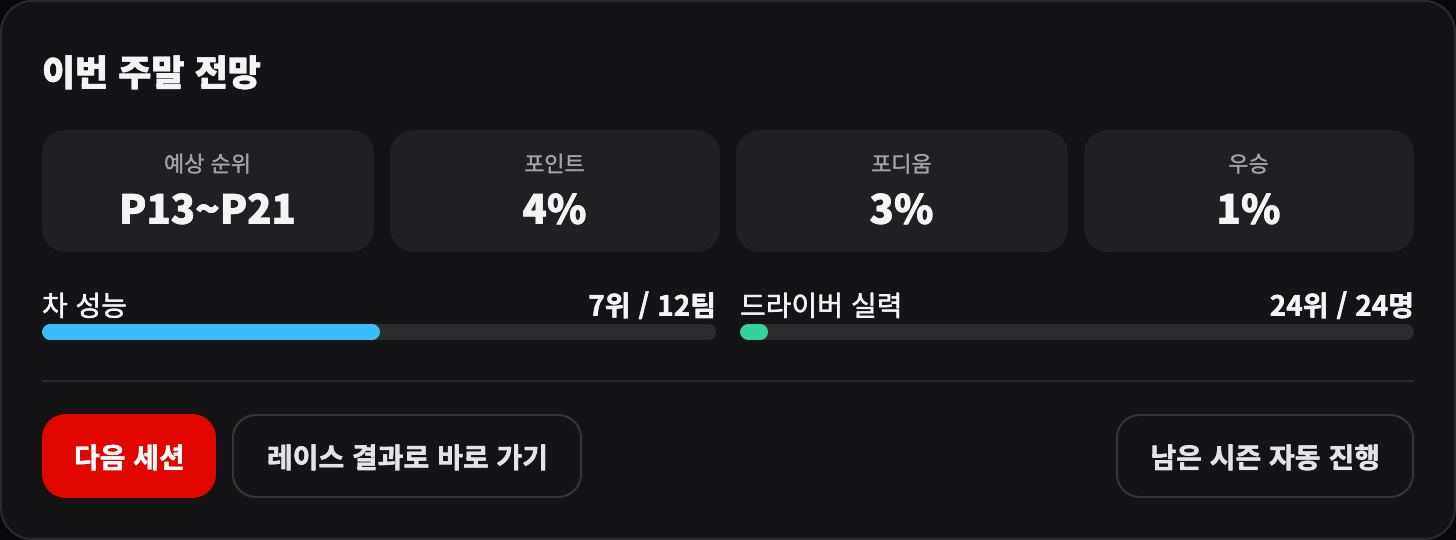
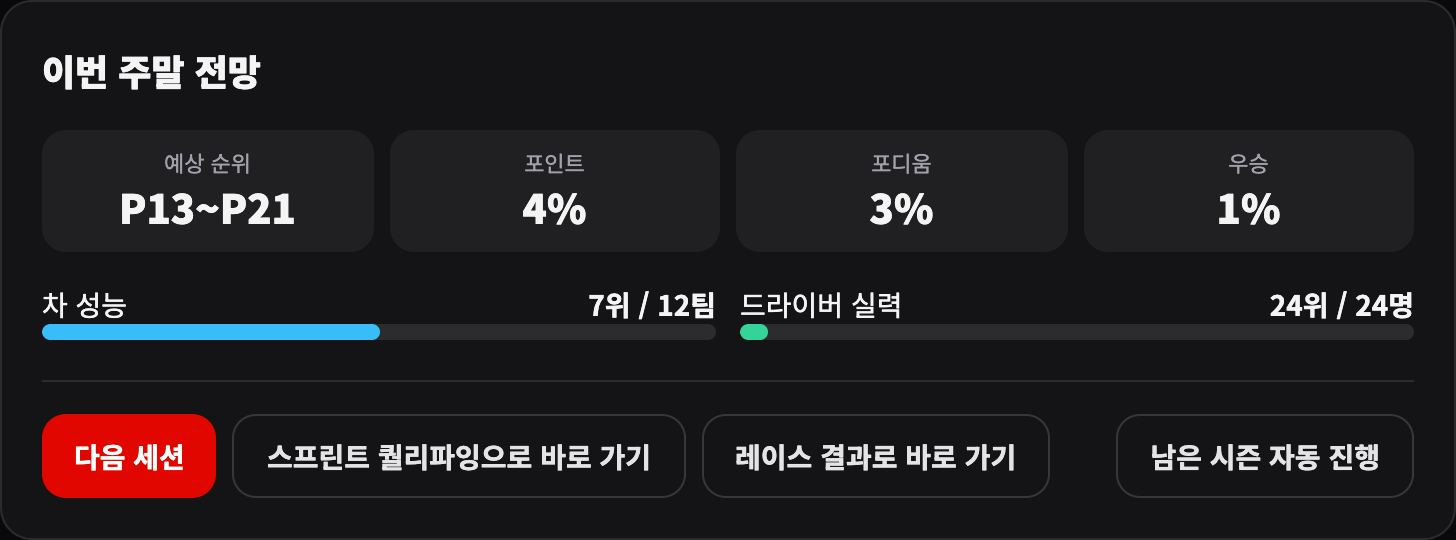
무전: 숫자 예상 대신 엔지니어 조언·장단점, 급박할 때만 팀 판단. 퀄리파잉으로 바로 가기

diff --git a/src/engine/race.ts b/src/engine/race.ts
@@ -15,7 +15,11 @@ export type RadioOptionId =
   | 'inters_now' | 'one_more_lap' | 'stay_slicks'
   | 'slicks_now' | 'stay_inters';
 
-export interface RadioOption { id: RadioOptionId; label: string; recommended: boolean }
+export interface RadioOption {
+  id: RadioOptionId; label: string; recommended: boolean;
+  /** 엔지니어가 짚어 주는 이 선택의 장단점(숫자 예상 대신, SPEC §5.5 v0.31) */
+  note?: string;
+}
 /**
  * 세이프티카·VSC·레드 플래그 상황 정보(SPEC §5.5 v0.30): 사고 지점, 크기, 예상 시간.
  * 실제 시간은 발령 다음 랩에 정해져서, 예상보다 짧거나 길게 끝날 수 있다(무전 선택 뒤의 운).
@@ -34,7 +38,13 @@ export interface Neutralization {
   /** 사고 차(잔해면 없음) */
   car?: string;
 }
-export interface RadioDecision { id: string; lap: number; trigger: RadioTrigger; options: RadioOption[]; neutral?: Neutralization }
+export interface RadioDecision {
+  id: string; lap: number; trigger: RadioTrigger; options: RadioOption[]; neutral?: Neutralization;
+  /** 엔지니어 한마디: 지금 상황과 추천 이유 */
+  advice?: string;
+  /** 급박한 상황: 드라이버에게 묻지 않고 팀이 바로 정한다(그 이유) */
+  urgent?: string;
+}
 
 export interface RaceCar {
   id: string;
@@ -117,7 +127,7 @@ export type Incident =
   | { type: 'neutral_update'; lap: number; delta: number; phase: Exclude<Phase, 'green'> }
   | { type: 'pit'; lap: number; car: string; compound: Compound; under: Phase }
   | { type: 'rain_start' | 'rain_stop'; lap: number }
-  | { type: 'radio'; lap: number; decisionId: string; choice: RadioOptionId };
+  | { type: 'radio'; lap: number; decisionId: string; choice: RadioOptionId; /** 팀이 급박해서 바로 정했다 */ forced?: string };
 
 export interface LapEntry { id: string; gap: number; compound: Compound; stops: number }
 export interface LapRecord { lap: number; phase: Phase; wet: boolean; order: LapEntry[] }
@@ -409,15 +419,16 @@ export function runRace(input: RaceInput): RaceOutcome {
         deployedNow === 'sc' ? 'sc' : deployedNow === 'vsc' ? 'vsc'
           : rainStartNow ? 'rain_start' : rainStopNow && my.compound === 'I' ? 'rain_stop' : null;
       if (trigger) {
-        const decision = buildDecision(trigger, lap, my, L, mandatoryStop);
-        if ((trigger === 'sc' || trigger === 'vsc') && neutral) decision.neutral = neutral;
+        const pos = Math.max(1, order.filter((x) => !x.out).indexOf(my) + 1);
+        const decision = buildDecision(trigger, lap, my, L, mandatoryStop, circuit, pos, (trigger === 'sc' || trigger === 'vsc') ? neutral ?? undefined : undefined);
         const recommended = decision.options.find((o) => o.recommended)?.id;
-        const choice = input.radio?.[decision.id] ?? (input.autoRadio ? recommended : undefined);
+        // 급박한 상황(의무 피트스톱이 코앞, 타이어가 한계를 넘음)이면 팀이 바로 부른다
+        const choice = decision.urgent ? recommended : input.radio?.[decision.id] ?? (input.autoRadio ? recommended : undefined);
         if (!choice) {
           return { status: 'pending', totalLaps: L, decision, laps, incidents };
         }
         applyRadio(my, choice, lap, L, mandatoryStop);
-        incidents.push({ type: 'radio', lap, decisionId: decision.id, choice });
+        incidents.push(decision.urgent ? { type: 'radio', lap, decisionId: decision.id, choice, forced: decision.urgent } : { type: 'radio', lap, decisionId: decision.id, choice });
       }
     }
 
@@ -675,13 +686,73 @@ function recommend(trigger: RadioTrigger, s: CarState, lap: number, L: number, m
   }
 }
 
-function buildDecision(trigger: RadioTrigger, lap: number, s: CarState, L: number, mandatoryStop: boolean): RadioDecision {
+/** 급박한 상황이면 그 이유. 이때는 드라이버에게 묻지 않고 팀이 바로 정한다 */
+function urgency(trigger: RadioTrigger, s: CarState, lap: number, L: number, mandatoryStop: boolean, circuit: Circuit): string | undefined {
+  if (trigger !== 'sc' && trigger !== 'vsc') return undefined;
+  const remaining = L - lap;
+  const needsCompound = mandatoryStop && s.dryUsed.size < 2;
+  const life = LIFE[s.compound] / circuit.deg;
+  if (needsCompound && remaining <= 20 && remaining > 2) return `의무 피트스톱이 남았는데 ${remaining}랩밖에 안 남았다. 팀이 바로 불러들였다`;
+  if (s.compound !== 'I' && s.tyreAge >= life * 0.95 && remaining > 4) return `타이어가 ${s.tyreAge}랩째로 수명이 다했다. 팀이 바로 불러들였다`;
+  const planned = s.planned[0];
+  if (planned !== undefined && planned - lap <= 2 && remaining > 4) return `원래 ${planned}랩에 들어올 계획이었다. 팀이 바로 불러들였다`;
+  return undefined;
+}
+
+const TYRE_NAME: Record<Compound, string> = { S: '소프트', M: '미디엄', H: '하드', I: '인터' };
+
+function buildDecision(trigger: RadioTrigger, lap: number, s: CarState, L: number, mandatoryStop: boolean, circuit?: Circuit, pos = 0, neutral?: Neutralization): RadioDecision {
   const rec = recommend(trigger, s, lap, L, mandatoryStop);
+  const remaining = L - lap;
+  const needsCompound = mandatoryStop && s.dryUsed.size < 2;
+  const deg = circuit?.deg ?? 1;
+  const life = Math.round(LIFE[s.compound] / deg);
+  const lifeOf = (c: Compound) => Math.round(LIFE[c] / deg);
+  const tyre = `${TYRE_NAME[s.compound]} ${s.tyreAge}랩째(수명 약 ${life}랩)`;
+  const where = pos ? `지금 P${pos}, ` : '';
+  const notes: Partial<Record<RadioOptionId, string>> = {};
+  let advice = '';
+  switch (trigger) {
+    case 'sc':
+    case 'vsc': {
+      const cheap = trigger === 'sc' ? '세이프티카 중엔 피트 손실이 절반쯤이야' : 'VSC 중엔 피트 손실이 40%쯤 줄어';
+      const odds = neutral ? [neutral.longer ? `길어질 확률 ${Math.round(neutral.longer * 100)}%` : '', neutral.shorter ? `짧아질 확률 ${Math.round(neutral.shorter * 100)}%` : ''].filter(Boolean).join(', ') : '';
+      const len = neutral ? ` 예상 ${neutral.expectedLaps}랩${odds ? `, ${odds}` : ''}.` : '';
+      advice = rec === 'stay_out'
+        ? `${where}${tyre}. 타이어가 아직 괜찮아. 자리를 지키는 게 낫다고 봐.${len}`
+        : `${where}${tyre}, 남은 ${remaining}랩. ${cheap}. 지금 들어가면 싸게 갈아 끼울 수 있어.${len}`;
+      const fresh = (c: Compound) => (lifeOf(c) >= remaining ? `끝까지 버틴다(수명 약 ${lifeOf(c)}랩)` : `약 ${lifeOf(c)}랩이면 한 번 더 들어와야 한다`);
+      const lose = pos > 1 ? `P${pos}에서 몇 자리 내려가고 다시 추월해야 한다` : '선두를 내줄 수 있다';
+      notes.pit_hard = `하드: ${fresh('H')}. 느리지만 안정적. ${lose}`;
+      notes.pit_medium = `미디엄: ${fresh('M')}. 하드보다 빠르다. ${lose}`;
+      notes.pit = `새 타이어(${TYRE_NAME[pickDry(remaining, s, mandatoryStop)]}). ${lose}`;
+      notes.stay_out = needsCompound
+        ? `자리는 지키지만 의무 피트스톱이 아직 남아 있다. 나중에 그린 플래그에서 들어가면 손해가 크다`
+        : s.tyreAge + remaining > life
+          ? `자리는 지키지만 이 타이어로 ${s.tyreAge + remaining}랩을 버텨야 한다. 막판에 밀릴 수 있다`
+          : `자리를 지킨다. 이 타이어로 끝까지 갈 수 있다`;
+      break;
+    }
+    case 'rain_start':
+      advice = `${where}비가 시작됐다. 굵어지면 슬릭으론 못 버텨. 언제 바꿀지는 네가 정해.`;
+      notes.inters_now = '가장 안전하다. 비가 금방 그치면 다시 들어와야 한다';
+      notes.one_more_lap = '한 랩 더 버티며 상황을 본다. 비가 굵어지면 그 랩에 크게 잃는다';
+      notes.stay_slicks = '비가 금방 그친다는 데 거는 도박. 맞으면 크게 번다';
+      break;
+    case 'rain_stop':
+      advice = `${where}트랙이 마르고 있어. 라인이 생기면 슬릭이 훨씬 빠르다.`;
+      notes.slicks_now = '먼저 바꾸면 크게 벌 수 있다. 다시 젖으면 위험';
+      notes.stay_inters = '몇 랩 더 지켜본다. 마르는 게 빠르면 손해';
+      break;
+  }
   return {
     id: `${trigger}@${lap}`,
     lap,
     trigger,
-    options: RADIO_OPTIONS[trigger].map((o) => ({ ...o, recommended: o.id === rec })),
+    options: RADIO_OPTIONS[trigger].map((o) => ({ ...o, recommended: o.id === rec, note: notes[o.id] })),
+    ...(neutral ? { neutral } : {}),
+    advice,
+    ...(circuit ? (() => { const u = urgency(trigger, s, lap, L, mandatoryStop, circuit); return u && rec !== 'stay_out' ? { urgent: u } : {}; })() : {}),
   };
 }
 

diff --git a/src/app/LiveRace.tsx b/src/app/LiveRace.tsx
@@ -4,7 +4,7 @@
 
 import { useEffect, useMemo, useRef, useState } from 'react';
 import {
-  forecastDecision, raceChat, rngFor, runRace, type Chat, type RaceChatKey,
+  raceChat, rngFor, runRace, type Chat, type RaceChatKey,
   type Classified, type Incident, type LapRecord, type Neutralization, type RaceCar, type RaceInput, type RadioDecision, type RadioOptionId,
 } from '../engine';
 import { CIRCUIT_PATHS } from './circuitPaths';
@@ -40,7 +40,7 @@ function describe(inc: Incident, x: Ctx): string | null {
     case 'restart': return '재출발';
     case 'rain_start': return '🌧 비 시작';
     case 'rain_stop': return '비 그침';
-    case 'radio': return `📻 무전: ${RADIO_LABEL[inc.choice] ?? inc.choice}`;
+    case 'radio': return inc.forced ? `📻 팀 판단: ${RADIO_LABEL[inc.choice] ?? inc.choice} (${inc.forced.split('.')[0]})` : `📻 무전: ${RADIO_LABEL[inc.choice] ?? inc.choice}`;
     case 'pit': return inc.car === ME ? `내 피트스톱 → ${inc.compound}` : null;
   }
 }
@@ -154,19 +154,7 @@ function TrackView({ circuitId, realLayout, laps, grid, progress, phase, baseLap
   );
 }
 
-function RadioModal({ input, decision, onPick }: { input: RaceInput; decision: RadioDecision; onPick: (o: RadioOptionId) => void }) {
-  const [forecasts, setForecasts] = useState<Record<string, string>>({});
-  useEffect(() => {
-    const id = setTimeout(() => {
-      const out: Record<string, string> = {};
-      for (const o of decision.options) {
-        const f = forecastDecision({ ...input, autoRadio: true }, decision, o.id, 40);
-        out[o.id] = Number.isFinite(f.p50) ? `예상 P${f.p10}~P${f.p90} (중앙 P${f.p50})` : '예상하기 어려움';
-      }
-      setForecasts(out);
-    }, 30);
-    return () => clearTimeout(id);
-  }, [decision.id]); // eslint-disable-line react-hooks/exhaustive-deps
+function RadioModal({ decision, onPick }: { decision: RadioDecision; onPick: (o: RadioOptionId) => void }) {
   const title = { sc: '세이프티카 출동!', vsc: 'VSC 발령!', rain_start: '비가 오기 시작했다.', rain_stop: '트랙이 마르고 있다.' }[decision.trigger];
   const n = decision.neutral;
   return (
@@ -181,15 +169,20 @@ function RadioModal({ input, decision, onPick }: { input: RaceInput; decision: R
           <div className="rounded-lg bg-black/30 p-2"><div className="text-zinc-400">더 짧게 · 더 길게</div><b className="text-sm">{Math.round(n.shorter * 100)}% · {Math.round(n.longer * 100)}%</b></div>
         </div>
       )}
-      {n && <p className="mt-2 text-xs leading-relaxed text-zinc-400">예상보다 짧게 끝나면 지금 피트에 들어간 차가 손해를 보고, 길게 끌면 거의 공짜 피트스톱이 됩니다.</p>}
+      {decision.advice && (
+        <p className="mt-3 rounded-lg border border-emerald-400/30 bg-emerald-400/5 p-3 text-sm leading-relaxed text-zinc-100" aria-label="엔지니어 조언">
+          <span className="mr-1 font-bold text-emerald-300">엔지니어:</span>“{decision.advice}”
+        </p>
+      )}
       <div className="mt-3 grid gap-2 sm:grid-cols-3">
         {decision.options.map((o) => (
           <button key={o.id} onClick={() => onPick(o.id)} className={`rounded-xl border p-3 text-left hover:bg-white/5 ${o.recommended ? 'border-emerald-400/60' : 'border-white/15'}`}>
             <div className="font-bold">{o.label}{o.recommended && <span className="ml-1 text-xs text-emerald-300">★ 엔지니어 추천</span>}</div>
-            <div className="mt-1 text-xs text-zinc-400">{forecasts[o.id] ?? '계산 중…'}</div>
+            {o.note && <div className="mt-1 text-xs leading-relaxed text-zinc-400">{o.note}</div>}
           </button>
         ))}
       </div>
+      <p className="mt-2 text-[11px] text-zinc-500">결정은 드라이버 몫입니다. 의무 피트스톱이 코앞이거나, 타이어 수명이 다했거나, 원래 계획한 피트 타이밍이면 팀이 묻지 않고 바로 부릅니다.</p>
     </div>
   );
 }
@@ -361,7 +354,7 @@ export function LiveRace({ input, realLayout = false, cars, colorOfTeam, instant
       )}
 
       {pending && outcome.status === 'pending' && (
-        <RadioModal input={input} decision={outcome.decision} onPick={(o) => { onRadio(outcome.decision.id, o); setPlaying(true); }} />
+        <RadioModal decision={outcome.decision} onPick={(o) => { onRadio(outcome.decision.id, o); setPlaying(true); }} />
       )}
 
       {finished && outcome.status === 'finished' && (

diff --git a/src/app/Guide.tsx b/src/app/Guide.tsx
@@ -61,14 +61,14 @@ const SECTIONS: Array<{ title: string; body: ReactNode; shots?: Shot[] }> = [
     shots: [
       { src: 'weekend-intro', alt: '그랑프리 주말 시작 화면의 전망', caption: '주말 시작 화면. 예상 순위와 포인트·포디움·우승 확률, 내 차와 실력의 순위, 챔피언십 순위를 보여 줍니다.' },
       { src: 'race-track', alt: '세이프티카 때 노랗게 바뀐 트랙 뷰와 사고 지점', caption: '트랙 뷰. 레이스 내내 실제 서킷 모양 위로 차가 팀 색 동그라미로 달리고, 흰 테두리가 내 차입니다. 세이프티카·VSC 때는 트랙이 노랗게 바뀌고 ⚠가 사고 지점입니다.' },
-      { src: 'race-radio', alt: '엔지니어 무전 선택 창과 상황 정보', caption: '엔지니어 무전. 사고 지점·크기와 예상 세이프티카 시간, 더 짧게·길게 끝날 확률이 나오고, 선택지마다 예상 순위와 ★엔지니어 추천이 붙습니다.' },
+      { src: 'race-radio', alt: '엔지니어 무전 선택 창과 상황 정보', caption: '엔지니어 무전. 사고 지점·크기와 예상 세이프티카 시간, 더 짧게·길게 끝날 확률, 엔지니어의 한마디가 나옵니다. 선택지마다 장단점이 적혀 있고 ★가 엔지니어 추천이지만, 고르는 건 드라이버입니다.' },
       { src: 'race-live', alt: '타이밍 타워', caption: '랩마다 바뀌는 타이밍 타워. 내 줄은 빨갛게 표시되고 선두와의 차이, 타이어, 피트 횟수가 보입니다.' },
     ],
     body: (
       <>
-        <p>하부 리그는 시즌을 한 번에 진행합니다. F1 레이스 시트에 오르면 <b>시즌 라이브로 시작</b>을 눌러 그랑프리마다 프랙티스 → 퀄리파잉 → (스프린트) → 레이스를 직접 볼 수 있습니다.</p>
+        <p>하부 리그는 시즌을 한 번에 진행합니다. F1 레이스 시트에 오르면 <b>시즌 라이브로 시작</b>을 눌러 그랑프리마다 프랙티스 → 퀄리파잉 → (스프린트) → 레이스를 직접 볼 수 있습니다. 프랙티스는 결과에 영향이 없으니 <b>퀄리파잉으로 바로 가기</b>로 건너뛰어도 됩니다.</p>
         <p>레이스와 스프린트는 첫 랩부터 체커기까지 <b>트랙 뷰</b>로 진행됩니다. 트랙 뷰는 스크롤해도 화면 위에 붙어 있고, 배속(×1은 실제 속도, ×5·×10·×30)과 일시정지를 고를 수 있습니다. 아래에 무전·결과, 실시간 댓글, 타이밍 타워가 붙습니다.</p>
-        <p>세이프티카·비 같은 상황이 오면 <b>엔지니어 무전</b>이 뜹니다. 세이프티카·VSC 때는 사고 지점과 크기(대·중·소), 예상 시간, 예상보다 짧거나 길게 끝날 확률이 함께 나옵니다. 짧게 끝나면 피트에 들어간 차가 손해를, 길게 끌면 거의 공짜 피트스톱이 되니 운과 선택에 따라 순위가 크게 갈립니다.</p>
+        <p>세이프티카·비 같은 상황이 오면 <b>엔지니어 무전</b>이 뜹니다. 세이프티카·VSC 때는 사고 지점과 크기(대·중·소), 예상 시간, 예상보다 짧거나 길게 끝날 확률이 함께 나옵니다. 짧게 끝나면 피트에 들어간 차가 손해를, 길게 끌면 거의 공짜 피트스톱이 되니 운과 선택에 따라 순위가 크게 갈립니다. 엔지니어는 타이어 상태와 남은 랩을 보고 추천만 하고 결정은 드라이버가 합니다. 다만 의무 피트스톱이 코앞이거나 타이어가 한계를 넘은 급한 상황에서는 팀이 바로 불러들입니다(사건 칸에 "팀 판단"으로 표시).</p>
         <p>바쁘면 <b>레이스 결과로 바로 가기</b>나 <b>남은 시즌 자동 진행</b>으로 넘어갈 수 있습니다. 이미 고른 무전은 그대로 반영됩니다.</p>
       </>
     ),

diff --git a/test/engine.test.ts b/test/engine.test.ts
@@ -4,7 +4,7 @@ import { describe, expect, it } from 'vitest';
 import {
   CALENDAR_2026, carFromDriver, circuitById, DRIVERS_2026, forecastFinish, generateCandidates, initialWorld,
   isValidCandidate, MAX_TEAMS, MIN_TEAMS, ovr, PERSONALITIES, rngFor, runOffseason, runRace, simulateQualifying,
-  enforceOrder, F1_UPSET_CHANCE, F1_WINNER_TEAMS, STAT_SUM, teamById, teamForm, TEAMS_2026, type Personality, type RaceCar, type RaceInput,
+  enforceOrder, F1_UPSET_CHANCE, F1_WINNER_TEAMS, STAT_SUM, teamById, teamForm, TEAMS_2026, type Personality, type RaceCar, type RaceInput, type RadioOptionId,
 } from '../src/engine';
 
 const cars: RaceCar[] = DRIVERS_2026.map((d) => carFromDriver(d, teamById(d.teamId)));
@@ -272,5 +272,27 @@ describe('F1 팀 진입·철수', () => {
     const snapshot = JSON.stringify(world);
     runOffseason(world, 2027, 1);
     expect(JSON.stringify(world)).toBe(snapshot);
+  });
+});
+
+describe('엔지니어 무전(SPEC §5.5 v0.31)', () => {
+  it('무전에는 엔지니어 한마디와 선택지별 장단점이 붙고, 급박한 상황은 팀이 바로 정한다', () => {
+    let pending = 0, forced = 0;
+    for (let seed = 0; seed < 400; seed++) {
+      const input = { ...raceInput(seed, 'austria'), myCarId: cars[10]!.id, autoRadio: false };
+      let out = runRace(input);
+      const radio: Record<string, RadioOptionId> = {};
+      for (let k = 0; k < 6 && out.status === 'pending'; k++) {
+        pending++;
+        expect(out.decision.advice).toBeTruthy();
+        expect(out.decision.urgent).toBeUndefined();
+        for (const o of out.decision.options) expect(o.note).toBeTruthy();
+        radio[out.decision.id] = out.decision.options[0]!.id;
+        out = runRace({ ...input, radio });
+      }
+      forced += out.incidents.filter((i) => i.type === 'radio' && i.forced).length;
+    }
+    expect(pending).toBeGreaterThan(50);
+    expect(forced).toBeGreaterThan(0);
   });
 });

diff --git a/src/app/Weekend.tsx b/src/app/Weekend.tsx
@@ -59,6 +59,8 @@ export function Weekend() {
   const home = homeGpEffect(c, wk.circuit);
   const lastRound = live.round >= rounds - 1;
   const lastStep = live.step >= wk.sessions.length;
+  // 프랙티스는 결과에 영향이 없으므로 첫 퀄리파잉으로 건너뛸 수 있다(step은 세션 번호 + 1)
+  const qualiStep = wk.sessions.findIndex((x) => x.type === 'quali' && !x.display) + 1;
 
   const addPoints = (rows: Classified[] | null, pts: Record<string, number>) => {
     if (rows) for (const r of rows) pts[r.id] = (pts[r.id] ?? 0) + r.points;
@@ -190,6 +192,7 @@ export function Weekend() {
             <Button onClick={next} disabled={!canNext}>
               {lastStep ? (lastRound ? '시즌 마치기' : '다음 그랑프리') : '다음 세션'}
             </Button>
+            {qualiStep > live.step && <Button variant="ghost" onClick={() => updateLive({ step: qualiStep })}>{wk.circuit.sprint ? '스프린트 퀄리파잉으로 바로 가기' : '퀄리파잉으로 바로 가기'}</Button>}
             {!lastStep && <Button variant="ghost" onClick={skipToResult}>레이스 결과로 바로 가기</Button>}
             <Button variant="ghost" className="ml-auto" onClick={() => confirmBox.ask(<>남은 {rounds - live.round}개 라운드를 자동으로 진행하고 시즌을 마칠까요? 지금까지 고른 무전은 그대로 반영되고, 남은 무전은 엔지니어 추천을 따릅니다.</>, finishLive, { confirmLabel: '남은 시즌 자동 진행' })}>남은 시즌 자동 진행</Button>
           </div>

diff --git a/SPEC.md b/SPEC.md
@@ -1,4 +1,4 @@
-# Cart_to_F1 — 기획 명세 (v0.30)
+# Cart_to_F1 — 기획 명세 (v0.31)
 
 > 공개 서비스명: **카트에서 챔피언까지** (내부 코드명 `Cart_to_F1`)
 
@@ -790,6 +790,12 @@ type Career = {
 - **화면 흐름 E2E**(`npm run e2e`, Playwright, `e2e/flows.spec.ts` 8개): 생성(번호 경고 포함), 시즌 → 오프시즌 → 은퇴(게임 안 확인 창), 무소속 은퇴, F1 라이브 중 자동 진행, 대시보드에서 남은 시즌 이어서 진행, 업적·기록과 저장 파일 내보내기·가져오기, 휴대폰 폭, 첫 안내. 배포 워크플로가 E2E를 통과해야 배포한다. E2E가 찾은 버그: 1번을 넣으면 챔피언 전용 안내 대신 범위 안내가 나오던 것
 - **공개 배포**: GitHub 공개 저장소 `mjk516/Cart_to_Champion`, GitHub Pages(Actions) https://mjk516.github.io/Cart_to_Champion/ . main에 푸시하면 엔진 테스트 → E2E → 빌드 → 배포. 커밋 작성자 이메일은 GitHub noreply 주소로 바꿔서 올렸다
 - **처음 안내**: 대시보드·오프시즌·그랑프리 주말에 한 번만 뜨는 안내 카드(닫으면 저장, 설정의 "처음 안내 다시 보기"로 되살림). 상단 메뉴·홈·설정에서 여는 **게임 방법** 페이지(목표, 사다리와 슈퍼 라이선스, 훈련, 라이브 레이스와 무전, 오프시즌, 성격, 돈·언론, 홈 그랑프리와 캘린더, 기록과 저장)
+
+### v0.31 추가 (무전·퀄리파잉)
+
+- **퀄리파잉으로 바로 가기**: 프랙티스는 결과에 영향이 없으므로 주말 시작·프랙티스 화면에서 첫 퀄리파잉(스프린트 주말은 스프린트 퀄리파잉)으로 건너뛰는 버튼
+- **무전은 드라이버가 정한다**: 선택지별 숫자 예상 순위(P20~P20 같은)를 없앴다. 대신 엔지니어가 지금 순위·타이어(종류, 사용 랩, 수명)·남은 랩·예상 세이프티카 시간을 짚어 주는 한마디와, 선택지마다 장단점(새 타이어가 끝까지 버티는지, 몇 자리 잃는지, 의무 피트스톱이 남았는지, 이 타이어로 몇 랩을 버텨야 하는지)을 보여 주고 ★로 추천만 한다
+- **급박한 상황은 팀이 정한다**: SC·VSC 때 의무 피트스톱이 남았는데 20랩 이하, 타이어 수명 95% 이상, 원래 계획한 피트 랩이 2랩 안이면 묻지 않고 추천(피트 인)을 바로 적용한다. 사건 칸에 "📻 팀 판단: …"으로 남는다. 세이프티카·VSC 무전의 약 5%가 이 경우다
 
 ### v0.30 추가 (피드백 반영)
 
